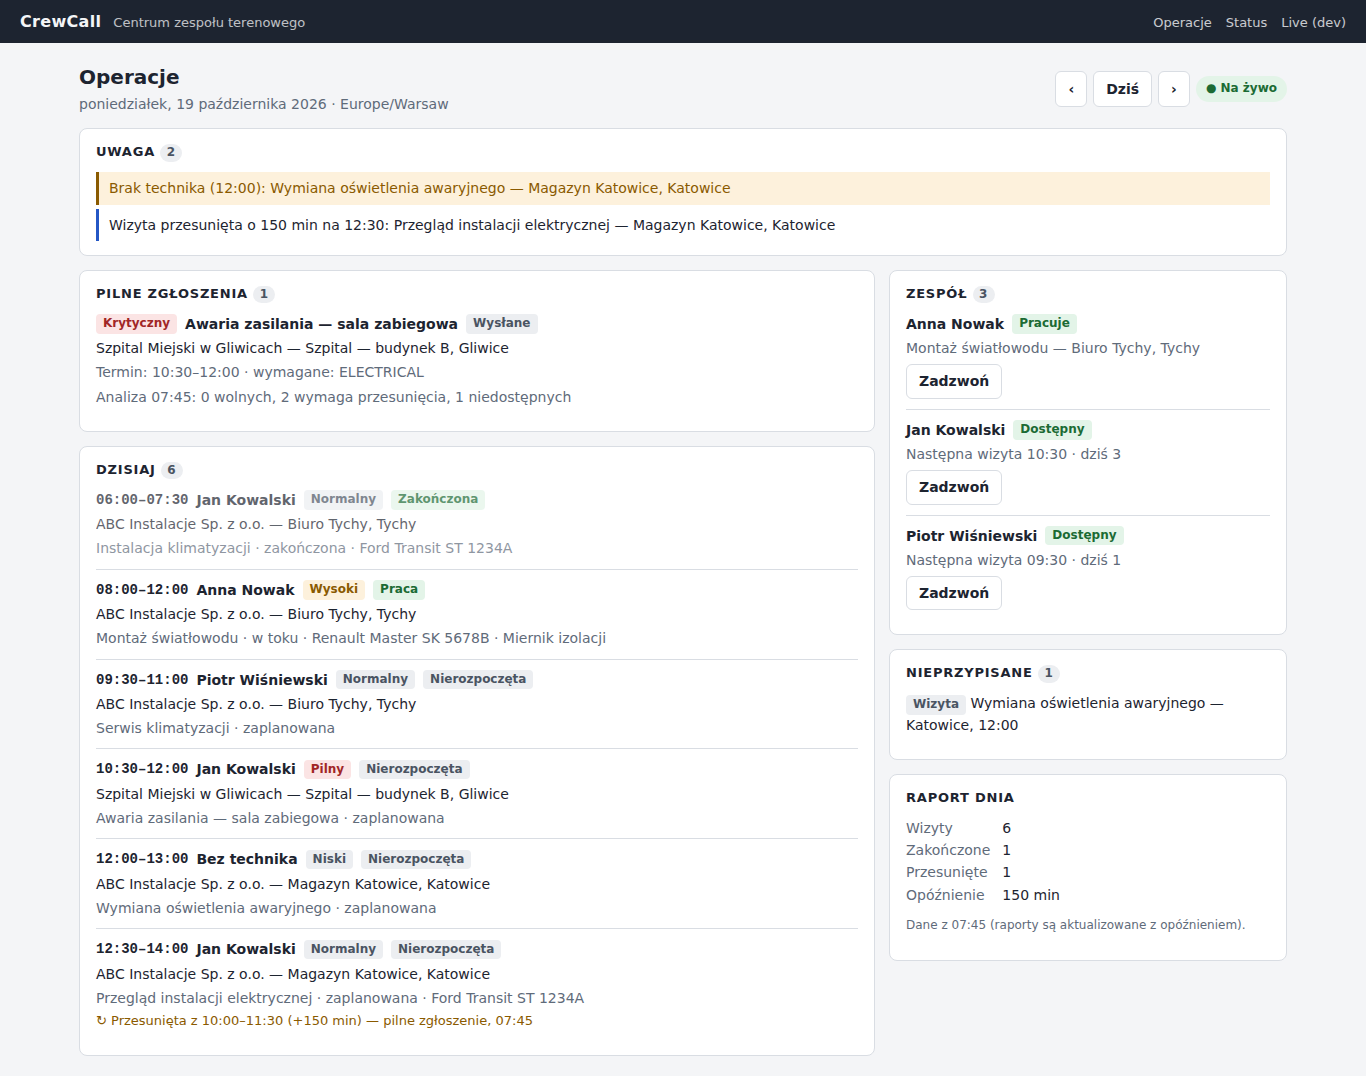
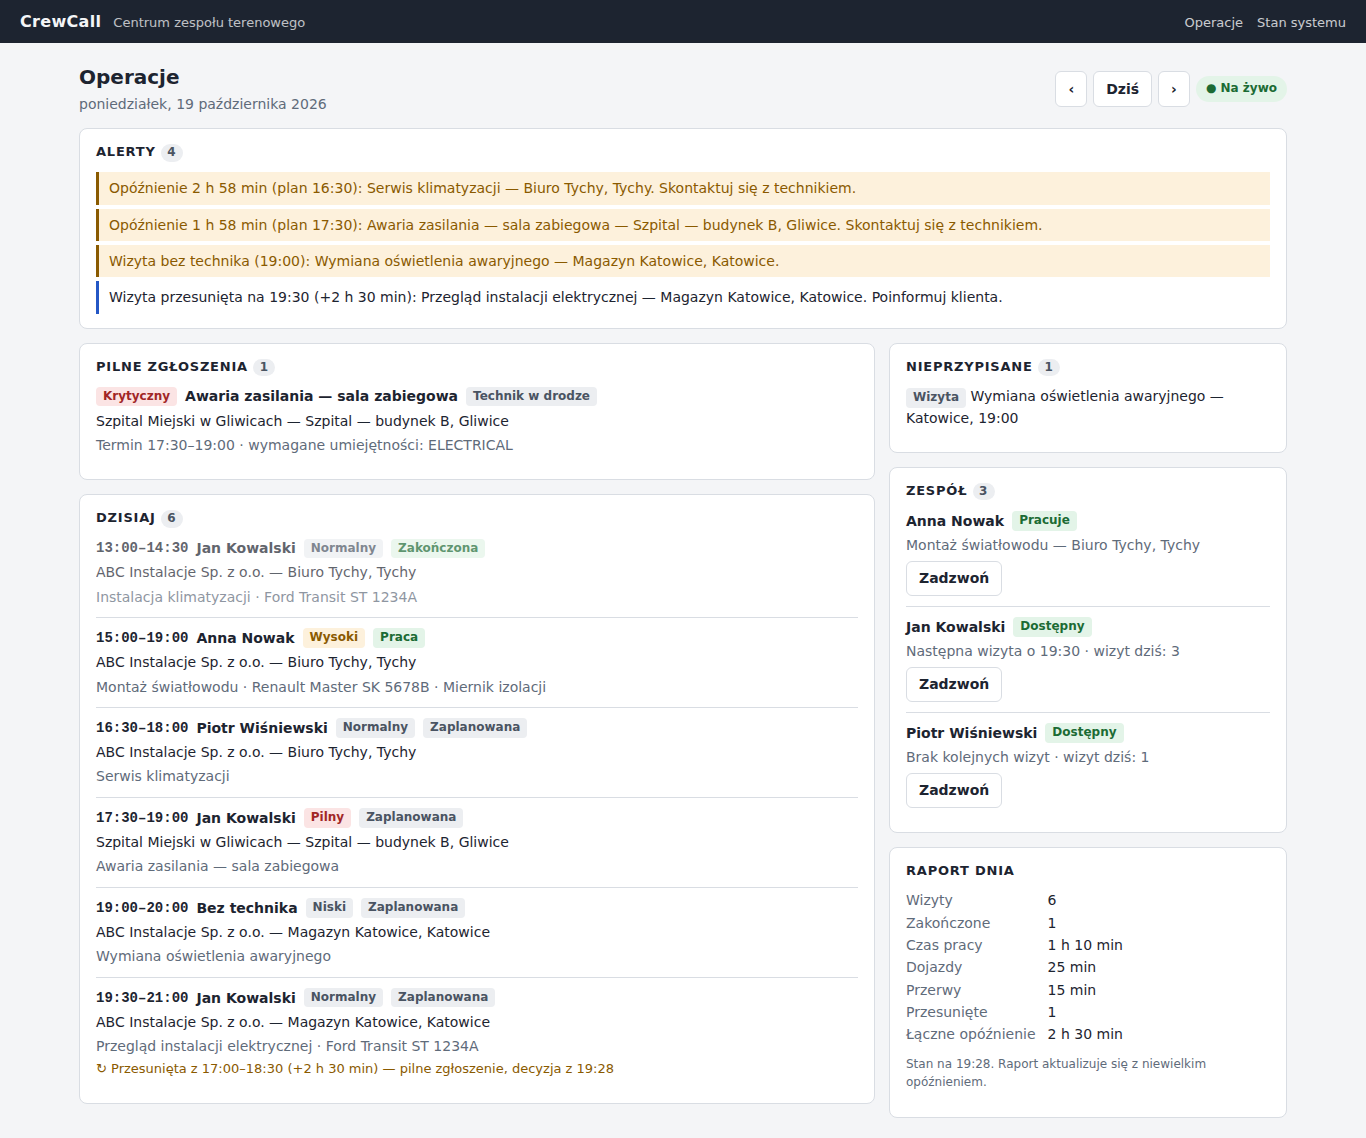
Refresh portfolio screenshots from a fresh local Aspire run
Dashboard, proposal, plan after approval, day report, phone view and the
Aspire resources, taken on a new database. README notes the first-start
EF Core migration-history logs.

Claude-Session: https://claude.ai/code/session_01XyNHZz1FKouaYUYCjBcQ2u

diff --git a/README.md b/README.md
@@ -258,6 +258,9 @@ dotnet test --solution CrewCall.sln
 
   A shared environment needs an explicit migration step and real secrets (see the
   [release checklist](docs/portfolio-release-checklist.md)).
+- **Error logs on the very first start.** On a new database, EF Core logs one failed query of the not-yet-created
+  `__EFMigrationsHistory` table per service, and Reporting's database health check can time out once while its
+  migrations run. These logs show as red badges in the dashboard. They do not repeat on later starts.
 - **The report is eventually consistent.** It can be a few seconds behind the plan, and the screen says so.
 - **Polish only.** The interface is in Polish, for a Polish field-service company.
 
